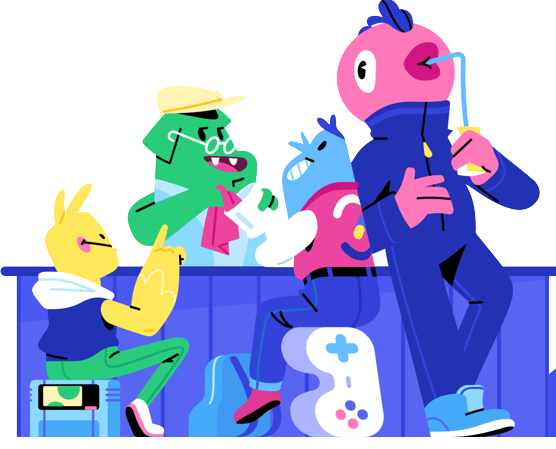
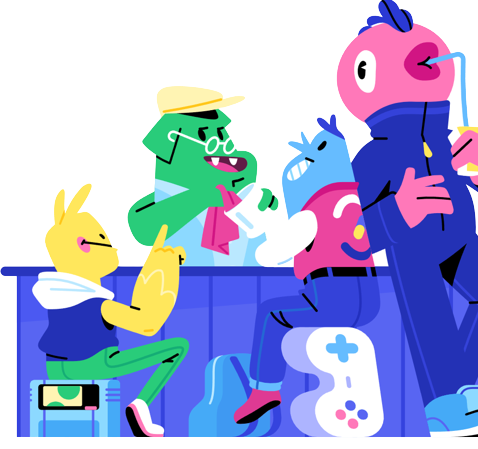
update

diff --git a/style.css b/style.css
@@ -1,7 +1,8 @@
 *
 {
     margin: 0px;
-    padding:0px;
+    margin-right: 10px;
+    padding: 0px;
 }
 .body
 {
@@ -18,6 +19,7 @@
     margin-left:0px;
     margin-right: 0px;
     height:685px;
+    width:1533px;
 }
 .backimage img
 {
@@ -25,7 +27,7 @@
     margin-top: 185px;
     margin-left:-310px;
     height:500px;
-    width:auto;
+    width:100vw;
 }
 .logo
 {
@@ -143,6 +145,7 @@ margin-top:10px;
 {
     position:absolute;
     margin-top:300px;
+    width: auto;
 }
 .header #imageright
 {
@@ -154,8 +157,8 @@ margin-top:10px;
 }
 .header #imageleft
 {
+    position: absolute;
     height:340px;
-    width:auto;
     margin-left:1170px;
     margin-top: 53px;
 }
